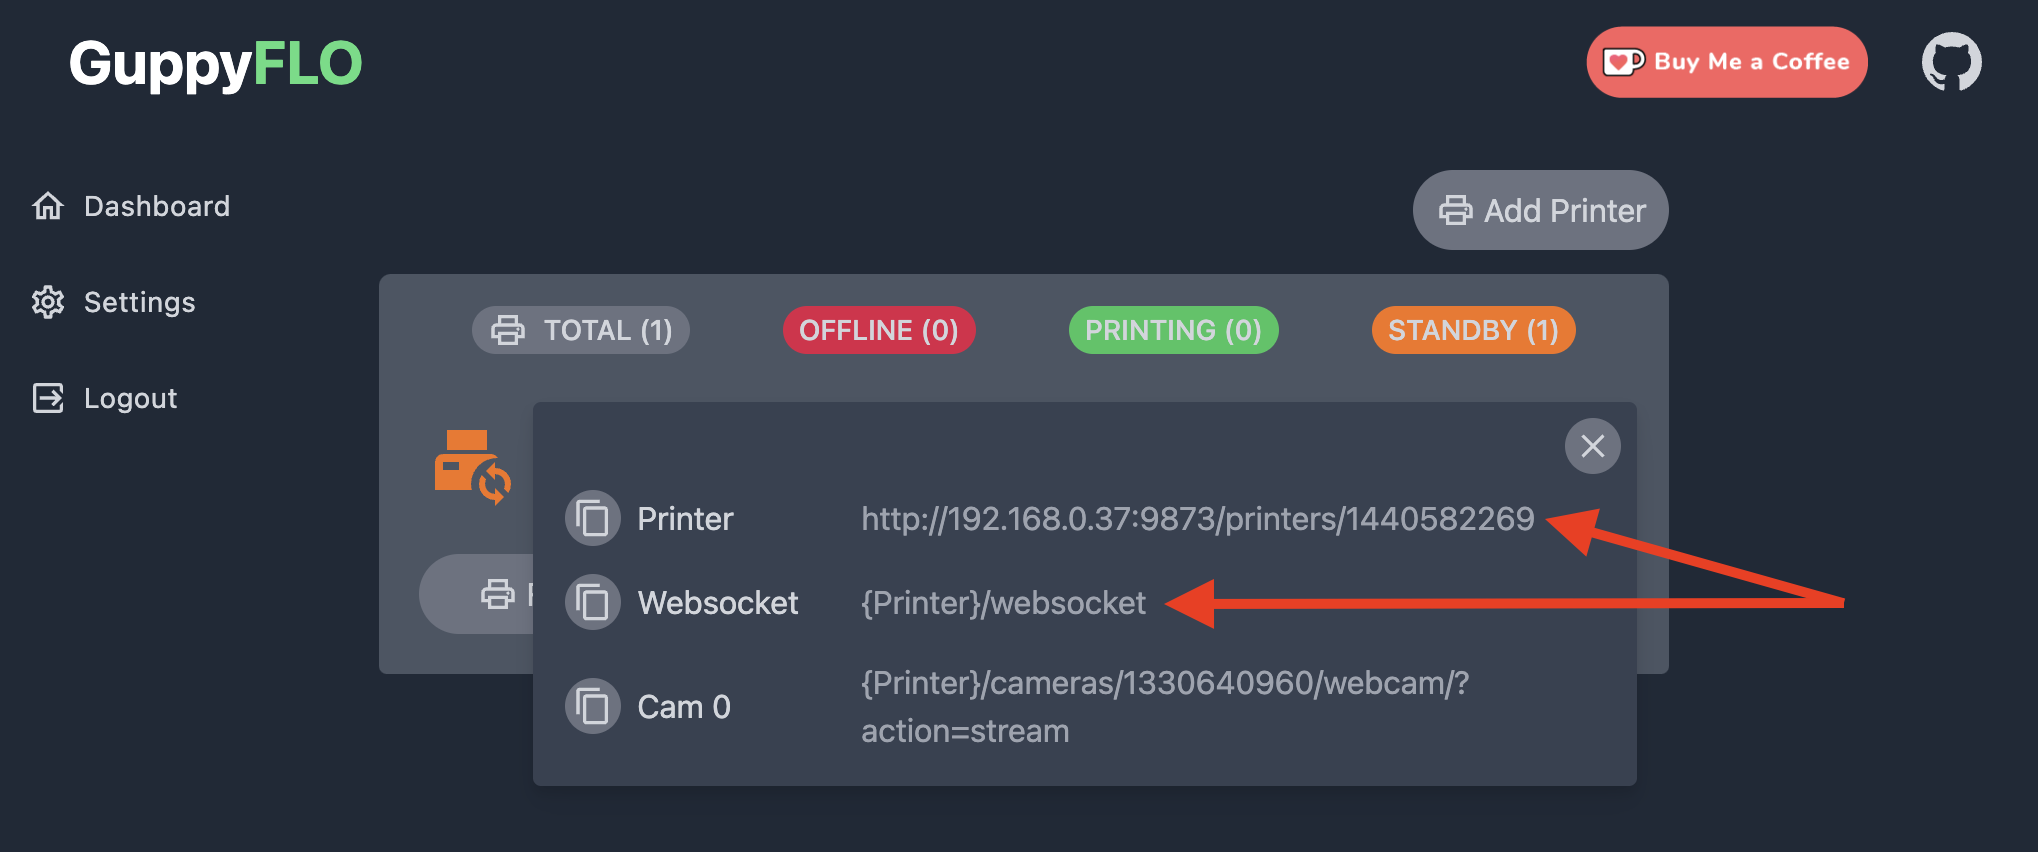
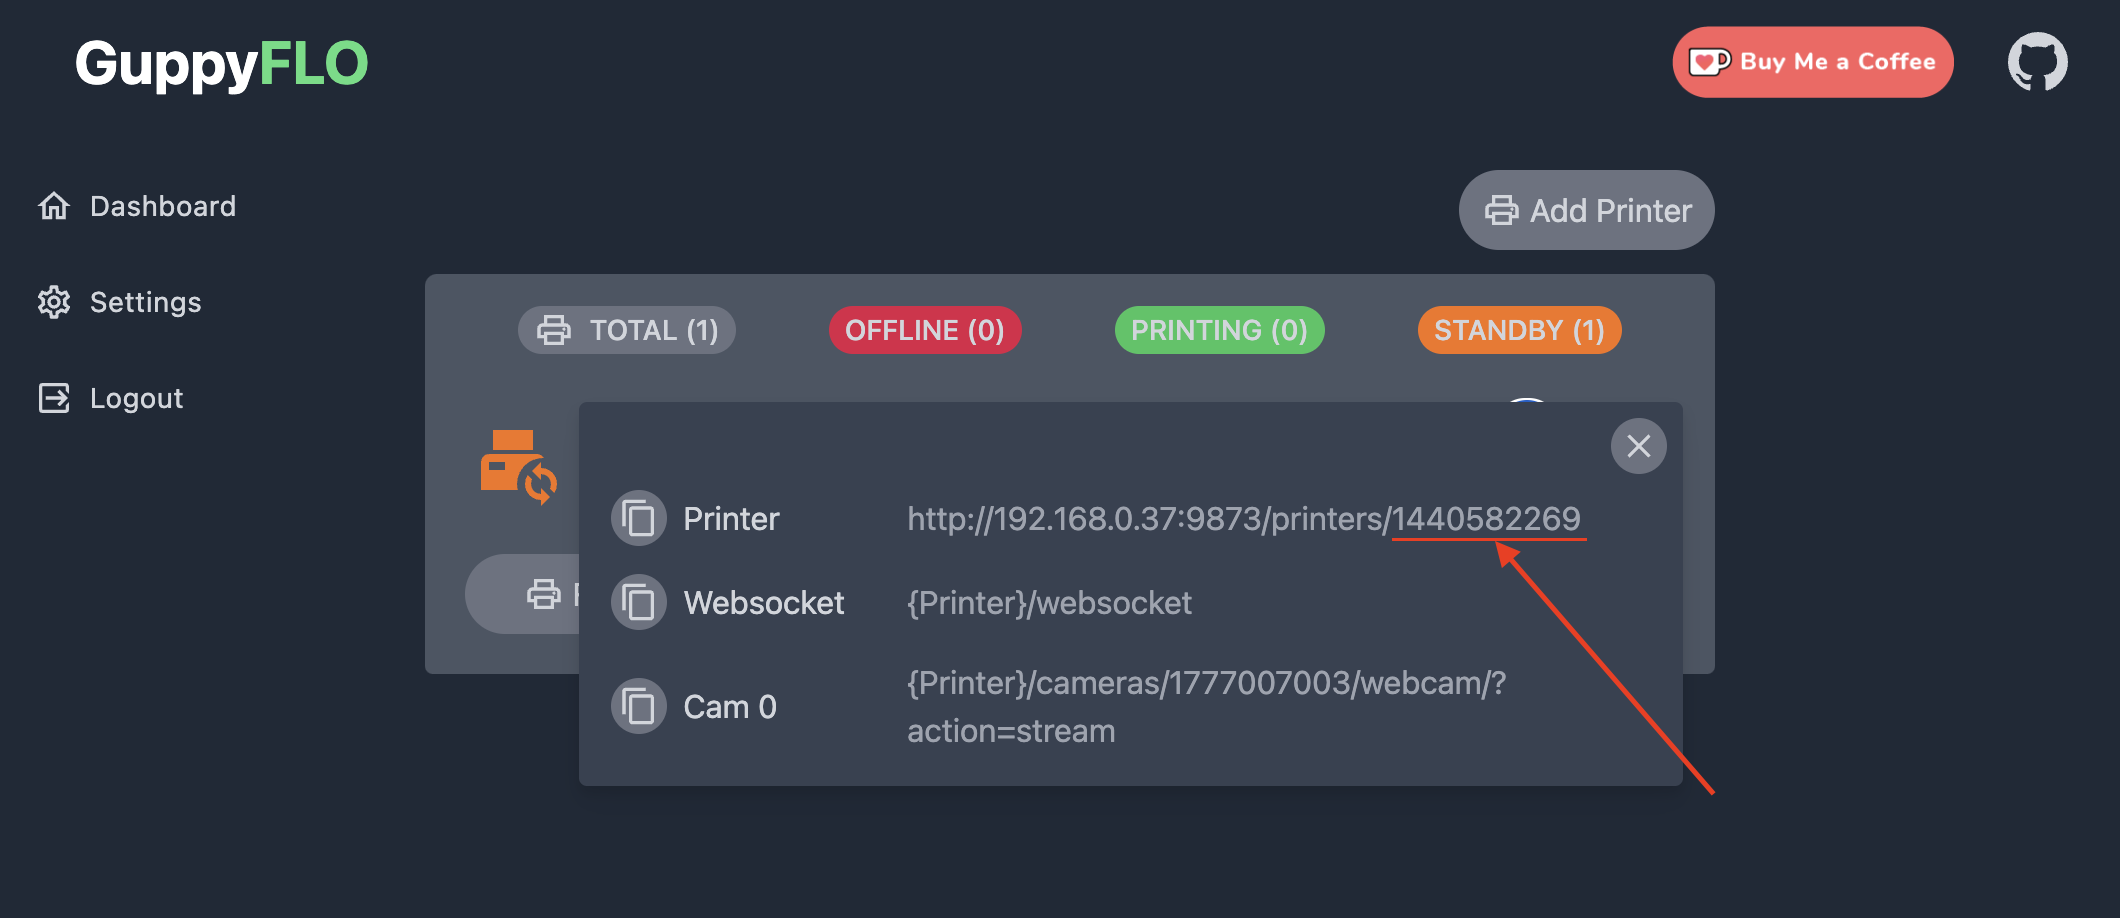
Update

diff --git a/docs/helper-script/mobileraker-companion.md b/docs/helper-script/mobileraker-companion.md
@@ -65,8 +65,12 @@ More info about Mobileraker: :material-web: [Here](https://mobileraker.com/)
 - Configure this settings like that by replacing `Printer` and `Websocket` adresses by yours and click on `Test Connection`:
 
     <img width="350" src="../../assets/img/Mobileraker-Companion/12.png">
+    
+    Your **Printer Adress** must be similar to: `http://guppyflo/printer/xxxxxxxxxx` by replacing `xxxxxxxxxx` by your Printer ID
+    
+    Your **Websocket Adress** must be similar to: `ws://guppyflo/printer/xxxxxxxxxx/websocket` by replacing `xxxxxxxxxx` by your Printer ID
 
-    You can obtain your printer link by clicking on the `Info` button on GuppyFLO Web interface:
+    You can obtain your **Printer ID** by clicking on the `Info` button on GuppyFLO Web interface:
 
     <img width="900" src="../../assets/img/Mobileraker-Companion/14.png">
 
@@ -81,6 +85,28 @@ More info about Mobileraker: :material-web: [Here](https://mobileraker.com/)
     <img width="350" src="../../assets/img/Mobileraker-Companion/05.png">
 
 - Your printer is now added to Mobileraker for remote access.
+
+- To configure camera, click on the 3 horizontal bars to display the menu:
+
+    <img width="350" src="../../assets/img/Mobileraker-Companion/06.png">
+
+- Click on `Settings` icon:
+
+    <img width="350" src="../../assets/img/Mobileraker-Companion/16.png">
+
+- And edit `WEBCAM` section:
+
+    <img width="350" src="../../assets/img/Mobileraker-Companion/17.png">
+
+    Your **Stream URL** must be similar to: `http://guppyflo/printer/xxxxxxxxxx/cameras/yyyyyyyyyy/webcam/?action=stream` by replacing `xxxxxxxxxx` by your Printer ID and `yyyyyyyyyy` by your Camera ID
+
+    Your **Snapshot URL** must be similar to: `http://guppyflo/printer/xxxxxxxxxx/cameras/yyyyyyyyyy/webcam/?action=snapshot` by replacing `xxxxxxxxxx` by your Printer ID and `yyyyyyyyyy` by your Camera ID
+
+    You can obtain your **Camera ID** by clicking on the `Info` button on GuppyFLO Web interface:
+
+    <img width="900" src="../../assets/img/Mobileraker-Companion/14.png">
+
+    <img width="900" src="../../assets/img/Mobileraker-Companion/18.png">
 
 !!! Note
     **The camera works remotely only when configured on the Fluidd or Mainsail Web interface. See the [Configure Camera](../configurations/configure-camera.md) section.**
